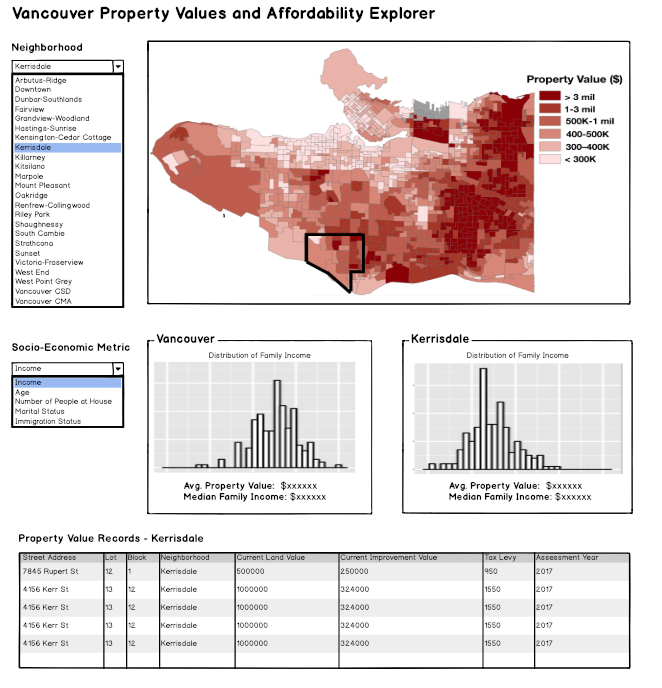
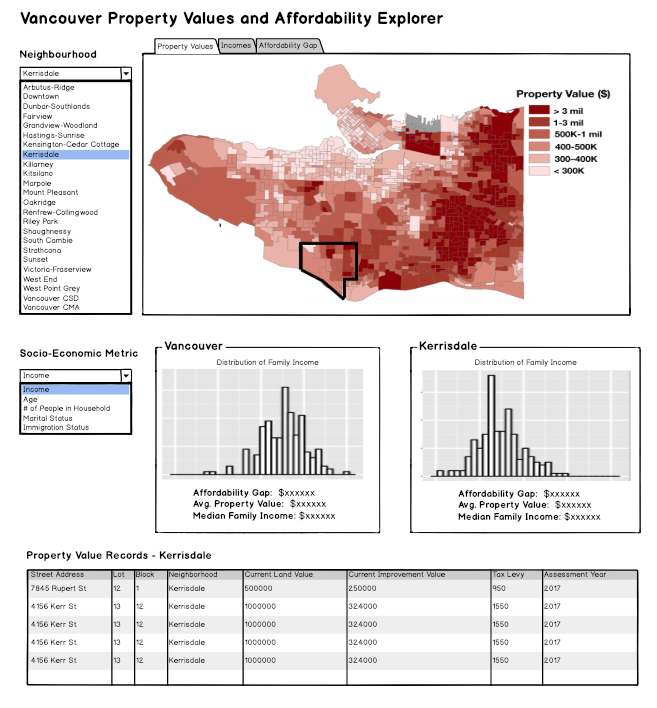
Added mockup description, updated mockup with map tabs

Changed region(s): [[0.0, 0.0, 0.9741, 0.9767]]

diff --git a/proposal.md b/proposal.md
@@ -2,7 +2,7 @@
 
 ### 1: Overview
 
-With home prices in Vancouver at record highs over recent years, many are concerned about housing affordability, especially [the gap](https://globalnews.ca/news/4444324/metro-vancouver-home-prices-incomes/) between property values and the income of people currently living in Vancouver. If we can compare property values of homes in different neighborhoods of Vancouver and the socio-economic background of people who reside in those areas, we can identify neighborhoods where the affordability gap is particularly severe. To do this, we propose building a data visualization application that allows city lawmakers to visually explore property value and socio-economic data geographically mapped to Vancouver neighborhoods. Our app will show the distribution of property values across the city and allow users to filter on a specific neighborhood in order to compare property values with various socio-economic statistics for that neighborhood.
+With home prices in Vancouver at record highs over recent years, many are concerned about housing affordability, especially [the gap](https://globalnews.ca/news/4444324/metro-vancouver-home-prices-incomes/) between property values and the income of people currently living in Vancouver. If we can compare property values of homes in different neighbourhoods of Vancouver and the socio-economic background of people who reside in those areas, we can identify neighbourhoods where the affordability gap is particularly severe. To do this, we propose building a data visualization application that allows city lawmakers to visually explore property value and socio-economic data geographically mapped to Vancouver neighbourhoods. Our app will show the distribution of property values across the city and allow users to filter on a specific neighbourhood in order to compare property values with various socio-economic statistics for that neighbourhood.
 
 ### 2: Description of data
 
@@ -24,6 +24,15 @@ they hypothesize that neighbourhoods with lower incomes might be the ones with a
 
 ### 4: Description of App and Initial Sketch
 
+The main page of the app features a map of Vancouver that is colour coded based on property values, allowing users to see which areas of the city have higher property values on average. Tabs above the map provide options to instead colour code the map based on the average income of people living in an area, or based on the size of an "affordabiliy gap" in that area. An affordability gap is a rough approximation of the difference between:
+
+* The dollar amount a homeowner needs to pay per year on average over 30 years to equal the average property value of a home, and:
+* The average annual income of people living in that area.
+
+The larger the affordability gap in a neighbourhood, the more a user might want to further explore that neighbourhood in detail. To explore a neighbourhood, users can select a neighbourhood from a dropdown list. A distribution and/or summary statistic of dataset factors (property value, a variable related to socio-economic of people who live in the area such as income or age, etc.) will be shown for that neighbourhood. Users can choose the specific socio-economic variable to show by making a selection in a different dropdown list.
+
+If more details about individual properties are needed, there is a section in the app that shows more granular information about each Vancouver property, including the specific address and lot number.
+
 ![](mockup.png)
 
-Note: This mockup uses a modified version of the choropleth graphic from this [blog](http://blogs.ubc.ca/katerynabaranovasgis/cartography/). The histograms are also clipped from the [ggplot2 tutorials](http://www.sthda.com/english/wiki/ggplot2-histogram-plot-quick-start-guide-r-software-and-data-visualization).
+_Note: This mockup uses a modified version of the choropleth graphic from this [blog](http://blogs.ubc.ca/katerynabaranovasgis/cartography/). The histograms are also clipped from the [ggplot2 tutorials](http://www.sthda.com/english/wiki/ggplot2-histogram-plot-quick-start-guide-r-software-and-data-visualization)._
